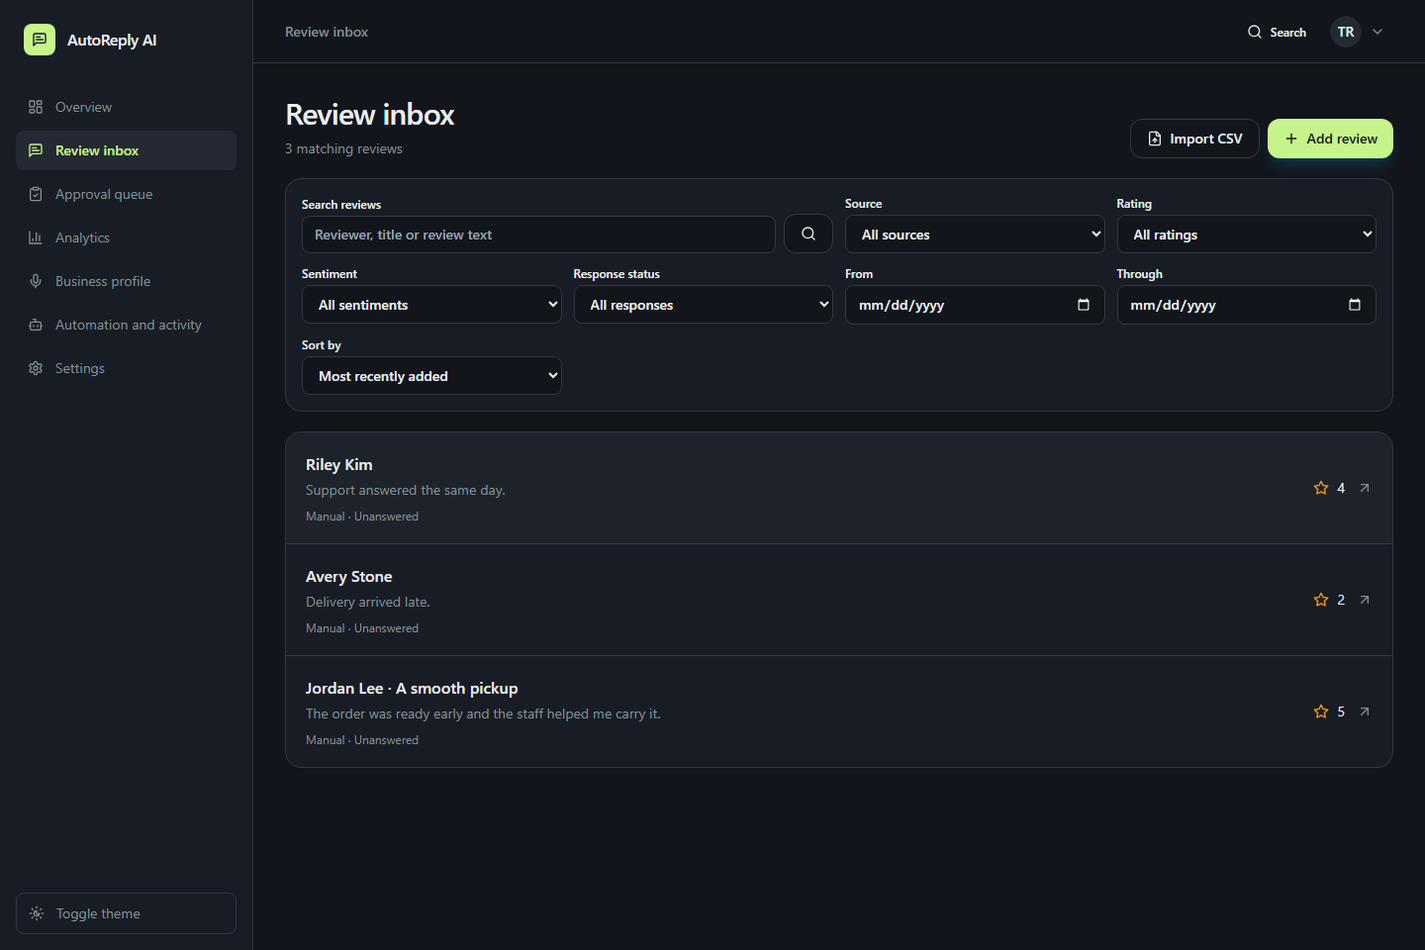
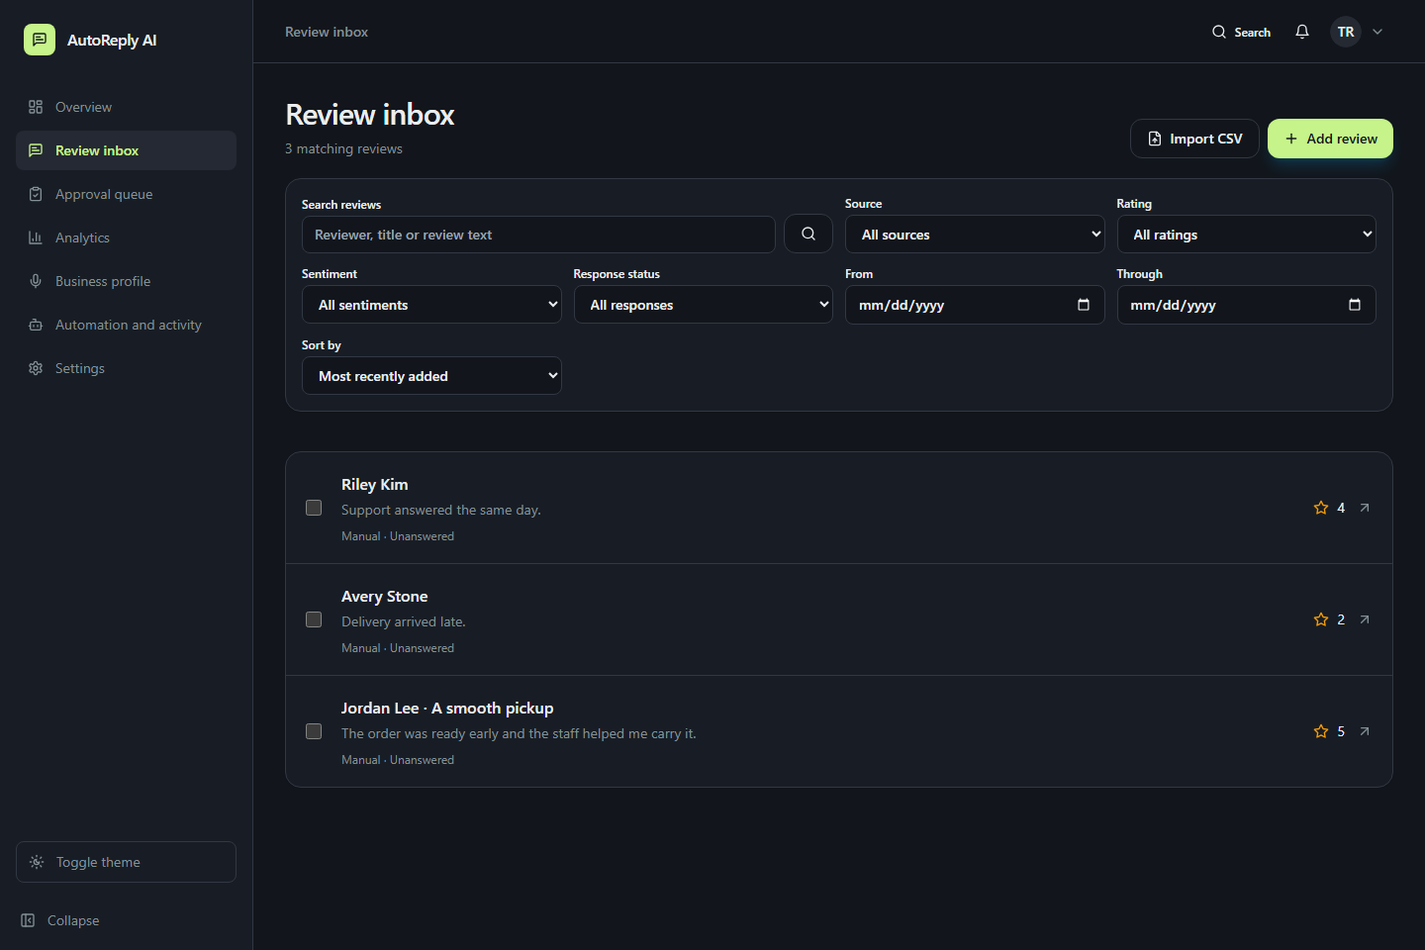
Complete workflow metrics, report downloads, and Vercel packaging

diff --git a/frontend/src/app/(dashboard)/reviews/page.tsx b/frontend/src/app/(dashboard)/reviews/page.tsx
@@ -9,6 +9,7 @@ import { Card } from '@/components/ui/card'
 import { Dialog, DialogContent, DialogDescription, DialogTitle } from '@/components/ui/dialog'
 import { PageTransition } from '@/components/layout/page-transition'
 import * as api from '@/lib/api'
+import { downloadCsv } from '@/lib/csv'
 
 const field = 'w-full rounded-lg border bg-background px-3 py-2 text-sm focus:outline-none focus:ring-2 focus:ring-ring'
 const initialFilters = { search: '', platform: '', rating: '', sentiment: '', response_status: '', date_from: '', date_to: '', sort: 'created_at:desc' }
@@ -23,6 +24,7 @@ export default function ReviewsPage() {
   const [file, setFile] = useState<File | null>(null)
   const [previewCsv, setPreviewCsv] = useState<string | null>(null)
   const [error, setError] = useState('')
+  const [selected, setSelected] = useState<string[]>([])
   const [sort_by, sort_order] = filters.sort.split(':')
   const query = useQuery({
     queryKey: ['reviews', page, filters],
@@ -34,15 +36,18 @@ export default function ReviewsPage() {
   })
 
   const changeFilter = (key: keyof typeof initialFilters, value: string) => {
+    setSelected([])
     setFilters((current) => ({ ...current, [key]: value }))
     setPage(1)
   }
   const refresh = () => {
+    setSelected([])
     setPage(1)
     for (const key of ['reviews', 'dashboard-stats', 'recent-reviews', 'monthly-activity', 'platform-performance', 'draft-jobs', 'workflow', 'sentiment-trends']) {
       void client.invalidateQueries({ queryKey: [key] })
     }
   }
+  const selectedReviews = query.data?.items.filter((review) => selected.includes(review.id)) ?? []
   const manual = useMutation({
     mutationFn: api.createReview,
     onSuccess: () => { refresh(); setDialog(null) },
@@ -116,23 +121,35 @@ export default function ReviewsPage() {
           <label className="min-w-0 text-xs font-medium">Through<input type="date" className={'mt-1 ' + field} min={filters.date_from} value={filters.date_to} onChange={(event) => changeFilter('date_to', event.target.value)} /></label>
           <label className="text-xs font-medium">Sort by<select className={'mt-1 ' + field} value={filters.sort} onChange={(event) => changeFilter('sort', event.target.value)}><option value="created_at:desc">Most recently added</option><option value="created_at:asc">Oldest added</option><option value="rating:asc">Lowest rating</option><option value="rating:desc">Highest rating</option></select></label>
         </Card>
-        {filters !== initialFilters && <Button variant="ghost" onClick={() => { setFilters(initialFilters); setSearchInput(''); setPage(1) }}>Clear filters</Button>}
+        <div className="flex flex-wrap gap-2">
+          {filters !== initialFilters && <Button variant="ghost" onClick={() => { setFilters(initialFilters); setSearchInput(''); setSelected([]); setPage(1) }}>Clear filters</Button>}
+          {selectedReviews.length > 0 && <Button variant="outline" onClick={() => downloadCsv('autoreply-selected-reviews.csv', [
+            ['rating', 'content', 'customer_name', 'title', 'platform', 'review_date'],
+            ...selectedReviews.map((review) => [review.rating, review.review_text, review.customer_name, review.title, review.platform, review.review_date]),
+          ])}>Export selected reviews ({selectedReviews.length})</Button>}
+        </div>
         <Card className="divide-y overflow-hidden">
           {query.isLoading && <p className="p-6 text-sm text-muted-foreground">Loading reviews…</p>}
           {query.isError && <p role="alert" className="p-6 text-sm text-destructive">{api.errorMessage(query.error, 'Could not load reviews.')} <button className="underline" onClick={() => query.refetch()}>Retry</button></p>}
           {query.data?.items.length === 0 && <p className="p-6 text-sm text-muted-foreground">No matching reviews. Add feedback or change your filters.</p>}
           {query.data?.items.map((review) => (
-            <Link key={review.id} href={'/reviews/detail?id=' + review.id} className="grid min-w-0 grid-cols-[1fr_auto] items-center gap-4 p-4 hover:bg-muted/50 sm:p-5">
+            <div key={review.id} className="grid grid-cols-[auto_minmax(0,1fr)] items-center pl-4 hover:bg-muted/50 sm:pl-5">
+              <input type="checkbox" aria-label={'Select ' + review.customer_name} checked={selected.includes(review.id)} onChange={(event) => {
+                const checked = event.target.checked
+                setSelected((ids) => checked ? [...ids, review.id] : ids.filter((id) => id !== review.id))
+              }} className="size-4 accent-primary" />
+              <Link href={'/reviews/detail?id=' + review.id} className="grid min-w-0 grid-cols-[1fr_auto] items-center gap-4 p-4 sm:p-5">
               <div className="min-w-0">
                 <p className="truncate font-medium">{review.customer_name}{review.title ? ' · ' + review.title : ''}</p>
                 <p className="mt-1 truncate text-sm text-muted-foreground">{review.review_text}</p>
                 <p className="mt-2 text-xs capitalize text-muted-foreground">{review.platform} · {review.reply?.status.replaceAll('_', ' ') ?? 'Unanswered'}</p>
               </div>
               <div className="flex items-center gap-2 text-sm"><Star className="size-4 text-amber-500" />{review.rating}<ArrowUpRight className="ml-1 size-4 text-muted-foreground" /></div>
-            </Link>
+              </Link>
+            </div>
           ))}
         </Card>
-        {query.data && query.data.total_pages > 1 && <nav className="flex items-center justify-between gap-3" aria-label="Review pages"><Button variant="outline" disabled={page <= 1} onClick={() => setPage(page - 1)}>Previous</Button><p className="text-sm">Page {page} of {query.data.total_pages}</p><Button variant="outline" disabled={page >= query.data.total_pages} onClick={() => setPage(page + 1)}>Next</Button></nav>}
+        {query.data && query.data.total_pages > 1 && <nav className="flex items-center justify-between gap-3" aria-label="Review pages"><Button variant="outline" disabled={page <= 1} onClick={() => { setSelected([]); setPage(page - 1) }}>Previous</Button><p className="text-sm">Page {page} of {query.data.total_pages}</p><Button variant="outline" disabled={page >= query.data.total_pages} onClick={() => { setSelected([]); setPage(page + 1) }}>Next</Button></nav>}
       </div>
       <Dialog open={dialog !== null} onOpenChange={(open) => { if (!open && !manual.isPending && !csv.isPending && !preview.isPending) openDialog(null) }}>
         <DialogContent className="max-h-[90dvh] overflow-y-auto">

diff --git a/frontend/src/app/(dashboard)/dashboard/page.tsx b/frontend/src/app/(dashboard)/dashboard/page.tsx
@@ -1,8 +1,9 @@
 'use client'
 
 import Link from 'next/link'
+import { useState } from 'react'
 import { useQuery } from '@tanstack/react-query'
-import { ArrowRight, CheckCircle2, Clock3, Inbox, Star } from 'lucide-react'
+import { ArrowRight, CheckCircle2, CircleAlert, Clock3, Inbox, Percent, Sparkles, Star } from 'lucide-react'
 import { ActivityChart } from '@/components/analytics/activity-chart'
 import { SentimentChart } from '@/components/analytics/sentiment-chart'
 import { PageTransition } from '@/components/layout/page-transition'
@@ -11,9 +12,11 @@ import * as api from '@/lib/api'
 import { formatRelativeTime } from '@/lib/utils'
 
 export default function DashboardPage() {
+  const [days, setDays] = useState(30)
   const stats = useQuery({ queryKey: ['dashboard-stats'], queryFn: api.getDashboardStats })
   const activity = useQuery({ queryKey: ['monthly-activity'], queryFn: () => api.getMonthlyActivity(6) })
-  const sentiment = useQuery({ queryKey: ['sentiment-trends'], queryFn: () => api.getSentimentTrends(30) })
+  const sentiment = useQuery({ queryKey: ['sentiment-trends', days], queryFn: () => api.getSentimentTrends(days) })
+  const workflow = useQuery({ queryKey: ['workflow'], queryFn: api.getWorkflowStatus })
   const recent = useQuery({ queryKey: ['recent-reviews'], queryFn: () => api.getReviews({ page: 1, page_size: 5 }) })
   const data = stats.data
   const tiles = [
@@ -21,6 +24,9 @@ export default function DashboardPage() {
     { name: 'Pending responses', value: data?.pending_replies, icon: Clock3 },
     { name: 'Approved drafts', value: data?.approved_replies, icon: CheckCircle2 },
     { name: 'Average rating', value: data?.total_reviews ? data.avg_rating.toFixed(2) : undefined, icon: Star },
+    { name: 'Generated drafts', value: workflow.data?.generated, icon: Sparkles },
+    { name: 'Failed attempts', value: workflow.data?.failed, icon: CircleAlert },
+    { name: 'Response completion', value: data ? data.completion_rate + '%' : undefined, icon: Percent },
   ]
 
   return (
@@ -31,6 +37,7 @@ export default function DashboardPage() {
           <Link href="/reviews" className="inline-flex items-center gap-2 rounded-lg bg-primary px-4 py-2.5 text-sm font-semibold text-primary-foreground">Open inbox <ArrowRight className="size-4" /></Link>
         </header>
         {stats.isError && <p role="alert" className="text-sm text-destructive">Dashboard totals are unavailable. <button className="underline" onClick={() => stats.refetch()}>Retry</button></p>}
+        {workflow.isError && <p role="alert" className="text-sm text-destructive">Draft activity is unavailable. <button className="underline" onClick={() => workflow.refetch()}>Retry</button></p>}
         <div className="grid grid-cols-2 gap-3 xl:grid-cols-4">
           {tiles.map(({ name, value, icon: Icon }) => (
             <Card key={name} className="min-w-0 p-4 sm:p-5">
@@ -39,6 +46,10 @@ export default function DashboardPage() {
               <p className="mt-1 text-sm text-muted-foreground">{name}</p>
             </Card>
           ))}
+        </div>
+        <div className="flex flex-wrap items-center justify-between gap-3 text-sm">
+          <dl className="flex flex-wrap gap-4">{['positive', 'neutral', 'negative'].map((label) => <div key={label} className="flex gap-2"><dt className="capitalize text-muted-foreground">{label}</dt><dd>{data ? (data.sentiments[label] ?? 0) + (label === 'negative' ? data.sentiments.very_negative ?? 0 : 0) : '—'}</dd></div>)}</dl>
+          <label className="flex items-center gap-2">Sentiment window<select value={days} onChange={(event) => setDays(Number(event.target.value))} className="rounded border bg-card px-2 py-1"><option value={7}>7 days</option><option value={30}>30 days</option><option value={90}>90 days</option></select></label>
         </div>
         <div className="grid min-w-0 gap-4 xl:grid-cols-2">
           {activity.isError ? <Card className="p-5">Review activity is unavailable.</Card> : <ActivityChart data={activity.data ?? []} loading={activity.isLoading} />}

diff --git a/frontend/e2e/workspace.spec.ts b/frontend/e2e/workspace.spec.ts
@@ -69,6 +69,9 @@ test('complete authenticated review workflow persists through reload', async ({ 
   const errors: string[] = []
   page.on('pageerror', (error) => errors.push(error.message))
   await login(page, email)
+  await page.getByRole('button', { name: 'Collapse sidebar' }).click()
+  await expect(page.getByRole('button', { name: 'Expand sidebar' })).toBeVisible()
+  await page.getByRole('button', { name: 'Expand sidebar' }).click()
   await page.getByRole('link', { name: 'Open inbox' }).click()
   await page.getByRole('button', { name: 'Add review' }).click()
   await page.getByLabel('Reviewer').fill('Jordan Lee')
@@ -76,6 +79,10 @@ test('complete authenticated review workflow persists through reload', async ({ 
   await page.getByLabel('Review text').fill('The order was ready early and the staff helped me carry it.')
   await page.getByRole('button', { name: 'Save review' }).click()
   await expect(page.getByRole('link', { name: /Jordan Lee/ })).toBeVisible()
+  await page.getByRole('checkbox', { name: 'Select Jordan Lee' }).check()
+  const selectedCsv = page.waitForEvent('download')
+  await page.getByRole('button', { name: 'Export selected reviews (1)' }).click()
+  expect((await selectedCsv).suggestedFilename()).toBe('autoreply-selected-reviews.csv')
   await page.getByRole('button', { name: 'Import CSV' }).click()
   await page.getByLabel('CSV file').setInputFiles({ name: 'synthetic.csv', mimeType: 'text/csv', buffer: Buffer.from('rating,content,customer_name\n2,Delivery arrived late.,Avery Stone\n4,Support answered the same day.,Riley Kim\n7,Invalid rating,Invalid Example') })
   await page.getByRole('button', { name: 'Preview import' }).click()
@@ -98,6 +105,7 @@ test('complete authenticated review workflow persists through reload', async ({ 
   await page.getByRole('textbox', { name: 'Response', exact: true }).fill('Thank you, Jordan. We’re glad your pickup was ready early and that our team could help.')
   await page.getByRole('button', { name: 'Save draft' }).click()
   await expect(page.getByText('Draft saved.', { exact: true })).toBeVisible()
+  await expect(page.getByRole('link', { name: '1 drafts awaiting approval' })).toBeVisible()
   await page.getByRole('button', { name: 'Search workspace' }).click()
   await page.getByLabel('Search term').fill('ready early')
   const search = page.getByRole('dialog', { name: 'Search workspace' })
@@ -120,6 +128,9 @@ test('complete authenticated review workflow persists through reload', async ({ 
   await expect(page.getByRole('heading', { name: 'Feedback analytics' })).toBeVisible()
   await expect(page.getByText('33.3%', { exact: true })).toBeVisible()
   await page.getByLabel('Sentiment window').selectOption('7')
+  const reportReady = page.waitForEvent('download')
+  await page.getByRole('button', { name: 'Download sentiment CSV' }).click()
+  expect((await reportReady).suggestedFilename()).toBe('autoreply-sentiment-7-days.csv')
   await fit(page)
   await page.screenshot({ path: path.join(evidence, 'analytics.png'), fullPage: true })
   await page.getByRole('navigation', { name: 'Workspace' }).getByRole('link', { name: 'Business profile' }).click()

diff --git a/frontend/src/components/layout/navbar.tsx b/frontend/src/components/layout/navbar.tsx
@@ -1,13 +1,15 @@
 'use client'
 
 import { usePathname, useRouter } from 'next/navigation'
-import { useQueryClient } from '@tanstack/react-query'
-import { ChevronDown, LogOut, Menu, Settings } from 'lucide-react'
+import Link from 'next/link'
+import { useQuery, useQueryClient } from '@tanstack/react-query'
+import { Bell, ChevronDown, LogOut, Menu, Settings } from 'lucide-react'
 import { Avatar, AvatarFallback } from '@/components/ui/avatar'
 import { DropdownMenu, DropdownMenuContent, DropdownMenuItem, DropdownMenuLabel, DropdownMenuSeparator, DropdownMenuTrigger } from '@/components/ui/dropdown-menu'
 import { getInitials } from '@/lib/utils'
 import { WorkspaceSearch } from '@/components/layout/workspace-search'
 import { useAuthStore } from '@/stores/auth-store'
+import { getWorkflowStatus } from '@/lib/api'
 
 const labels: Record<string, string> = { dashboard: 'Overview', reviews: 'Review inbox', brand: 'Business profile', agent: 'Automation and activity', approvals: 'Approval queue', analytics: 'Analytics', admin: 'Administration', settings: 'Settings' }
 
@@ -16,11 +18,14 @@ export function Navbar({ onMenuClick }: { onMenuClick: () => void }) {
   const router = useRouter()
   const client = useQueryClient()
   const { user, logout } = useAuthStore()
+  const workflow = useQuery({ queryKey: ['workflow'], queryFn: getWorkflowStatus })
+  const pending = workflow.data?.awaiting_approval
 
   return <header className="sticky top-0 z-20 flex h-16 items-center gap-3 border-b bg-background px-4 sm:px-6 xl:px-8">
     <button aria-label="Open navigation" className="rounded-lg p-2 hover:bg-accent lg:hidden" onClick={onMenuClick}><Menu className="size-5" /></button>
     <span className="text-sm font-medium text-muted-foreground">{labels[pathname.split('/')[1]] ?? 'Workspace'}</span>
     <div className="ml-auto flex items-center gap-1"><WorkspaceSearch />
+      <Link href="/approvals" aria-label={pending ? `${pending} drafts awaiting approval` : 'Open approval queue'} className="relative rounded-lg p-2 hover:bg-accent"><Bell className="size-4" />{Boolean(pending) && <span className="absolute right-1 top-1 size-2 rounded-full bg-primary" />}</Link>
       <DropdownMenu>
         <DropdownMenuTrigger asChild><button aria-label="Account menu" className="flex items-center gap-2 rounded-lg px-2 py-1 hover:bg-accent"><Avatar size="sm"><AvatarFallback>{user ? getInitials(user.full_name) : 'U'}</AvatarFallback></Avatar><ChevronDown className="size-4 text-muted-foreground" /></button></DropdownMenuTrigger>
         <DropdownMenuContent align="end" className="min-w-52">

diff --git a/frontend/src/app/(dashboard)/analytics/page.tsx b/frontend/src/app/(dashboard)/analytics/page.tsx
@@ -6,7 +6,9 @@ import { ActivityChart } from '@/components/analytics/activity-chart'
 import { SentimentChart } from '@/components/analytics/sentiment-chart'
 import { PageTransition } from '@/components/layout/page-transition'
 import { Card } from '@/components/ui/card'
+import { Button } from '@/components/ui/button'
 import * as api from '@/lib/api'
+import { downloadCsv } from '@/lib/csv'
 
 export default function AnalyticsPage() {
   const [days, setDays] = useState(30)
@@ -16,10 +18,18 @@ export default function AnalyticsPage() {
   const platforms = useQuery({ queryKey: ['platform-performance'], queryFn: api.getPlatformPerformance })
   const data = stats.data
 
+  function downloadReport() {
+    if (!trends.data?.length) return
+    const rows = trends.data.map(({ date, positive, neutral, negative, very_negative }) =>
+      [date, positive, neutral, negative, very_negative],
+    )
+    downloadCsv(`autoreply-sentiment-${days}-days.csv`, [['date', 'positive', 'neutral', 'negative', 'very_negative'], ...rows])
+  }
+
   return (
     <PageTransition>
       <div className="space-y-5">
-        <header><h1 className="text-3xl font-semibold tracking-tight">Feedback analytics</h1><p className="mt-2 text-sm text-muted-foreground">See how customer ratings and response activity change over time.</p></header>
+        <header className="flex flex-wrap items-start justify-between gap-3"><div><h1 className="text-3xl font-semibold tracking-tight">Feedback analytics</h1><p className="mt-2 text-sm text-muted-foreground">See how customer ratings and response activity change over time.</p></div><Button variant="outline" disabled={!trends.data?.length} onClick={downloadReport}>Download sentiment CSV</Button></header>
         {stats.isError && <p role="alert" className="text-sm text-destructive">Workspace totals are unavailable.</p>}
         <div className="grid gap-4 lg:grid-cols-3">
           <Card className="p-5"><h2 className="font-semibold">Response completion</h2><p className="mt-4 text-3xl font-semibold">{data ? data.completion_rate + '%' : '—'}</p><p className="mt-2 text-sm text-muted-foreground">Reviews with an approved or published response.</p></Card>

diff --git a/frontend/src/lib/csv.ts b/frontend/src/lib/csv.ts
@@ -1,0 +1,16 @@
+function quoteCsvCell(value: string | number | null | undefined) {
+  if (typeof value === 'number') return String(value)
+  const text = value ?? ''
+  const safe = /^[\t\r\n]|^\s*[=+@-]/.test(text) ? "'" + text : text
+  return '"' + safe.replaceAll('"', '""') + '"'
+}
+
+export function downloadCsv(filename: string, rows: (string | number | null | undefined)[][]) {
+  const csv = rows.map((row) => row.map(quoteCsvCell).join(',')).join('\r\n')
+  const url = URL.createObjectURL(new Blob([csv], { type: 'text/csv;charset=utf-8' }))
+  const link = document.createElement('a')
+  link.href = url
+  link.download = filename
+  link.click()
+  setTimeout(() => URL.revokeObjectURL(url), 1000)
+}

diff --git a/frontend/src/lib/api.ts b/frontend/src/lib/api.ts
@@ -171,7 +171,7 @@ export async function getReviewHistory(reviewId: string): Promise<{ id: string; 
   return data
 }
 
-export async function getWorkflowStatus(): Promise<{ ai_enabled: boolean; provider: string; model: string; awaiting_approval: number; generated: number; remaining_today: number; daily_limit: number }> {
+export async function getWorkflowStatus(): Promise<{ ai_enabled: boolean; provider: string; model: string; awaiting_approval: number; generated: number; failed: number; remaining_today: number; daily_limit: number }> {
   const { data } = await api.get('/reviews/workflow')
   return data
 }

diff --git a/backend/app/api/v1/reviews.py b/backend/app/api/v1/reviews.py
@@ -12,6 +12,7 @@ from app.core.config import settings
 from app.core.dependencies import get_current_business, get_current_user, get_db, limiter
 from app.models.audit_log import AuditLog
 from app.models.business import Business
+from app.models.drafting import DraftJob
 from app.models.reply import Reply
 from app.models.usage import UsageMetric
 from app.models.user import User
@@ -150,8 +151,11 @@ async def workflow_status(
     generated = await db.scalar(select(func.count()).where(
         UsageMetric.business_id == business.id, UsageMetric.metric_type == "ai_generation",
     ))
+    failed = await db.scalar(select(func.count()).where(
+        DraftJob.business_id == business.id, DraftJob.state == "failed",
+    ))
     return {"ai_enabled": settings.ai_ready, "provider": settings.AI_PROVIDER, "model": settings.ai_model,
-            "awaiting_approval": awaiting, "generated": generated,
+            "awaiting_approval": awaiting, "generated": generated, "failed": failed,
             "remaining_today": await DraftingService(db).remaining(user.id), "daily_limit": settings.AI_USER_DAILY_LIMIT}
 
 

diff --git a/docs/DEPLOYMENT.md b/docs/DEPLOYMENT.md
@@ -10,6 +10,7 @@ See the root README for environment setup. Compose serves the Next.js static bui
 - Store `SECRET_KEY`, `REGISTRATION_INVITE`, `DATABASE_URL` and `GEMINI_API_KEY` on the backend. Configure credentials as Sensitive in Production where Vercel allows it. Set the exact frontend origin in `CORS_ORIGINS` and `APP_URL`.
 - Set `AI_GENERATION_ENABLED=true`, `AI_PROVIDER=gemini` and `ALLOW_SIGNUPS=false`. The model defaults to `gemini-3.5-flash-lite`. Defaults allow five attempts per user and 30 across the service per UTC day, with two active jobs. Check the provider’s quota before changing these controls.
 - Build the workspace with the deployed API URL including `/api/v1`, `NEXT_PUBLIC_INVITE_SIGNUPS=true` and `NEXT_PUBLIC_ALLOW_SIGNUPS=false`. These public flags are applied at build time.
+- From `frontend/`, run `node scripts/package-vercel.mjs out <linked-staging-directory>` to prepare the static output. Deploy the linked frontend staging directory with `vercel deploy --prebuilt --prod`.
 - The hosted drafting path processes requests with a database-backed job ledger. The legacy Celery/Redis workers require a separate runtime and credentials.
 
 Use a fictional review to verify intake, model inference, approval, and persistence after reload. Confirm unauthorized requests are rejected and the workspace origin can reach the API.

diff --git a/docs/TEST_RESULTS.md b/docs/TEST_RESULTS.md
@@ -2,9 +2,10 @@
 
 | Check | Result |
 | --- | --- |
-| Live Gemini sentiment and multilingual output | PASS. Real Gemini 3.5 Flash-Lite inference classified a fictional German complaint and drafted a German response. |
+| Live Gemini sentiment and multilingual output | PASS. Real Gemini 3.5 Flash-Lite inference classified positive, neutral, and negative feedback and drafted replies in English, Urdu, and German. |
 | Live local workflow persistence | PASS. The classified review, draft, completed job, and approval were persisted. |
-| Public frontend and private workspace | Chromium covered responsive landing, the workflow illustration, access gating, CSV preview and import, global search, persisted replies, analytics, and business settings. |
+| Automated backend checks | 148 passed, 49% line coverage across the backend. |
+| Public frontend and private workspace | 10 Chromium scenarios cover a six-size responsive landing check, workflow illustration, access gating, CSV preview and import, global search, persisted replies, analytics, and business settings. |
 | Database migrations | PASS. SQLite and hosted Neon PostgreSQL applied the draft job and quota migration. |
 | Hosted application and AI | BLOCKED. The Production Gemini credential is pending. |
 | Redis worker and external platform connectors | NOT TESTED in the hosted environment. |

diff --git a/docs/HOSTED_RELEASE.md b/docs/HOSTED_RELEASE.md
@@ -4,9 +4,11 @@ The dedicated Vercel API project is linked to a Neon Free PostgreSQL database. T
 
 | Gate | Status |
 | --- | --- |
-| Local Gemini API inference | PASS. Gemini 3.5 Flash-Lite classified fictional feedback and returned a German reply. |
+| Local Gemini API inference | PASS. Gemini 3.5 Flash-Lite classified positive, neutral, and negative fictional feedback and returned English, Urdu, and German replies. |
 | Local draft persistence and human approval | PASS. The reply, classified sentiment, job, and approval persisted. |
 | Hosted Gemini credential | BLOCKED. The operator needs to add `GEMINI_API_KEY` as Sensitive for Production. |
 | Final workspace deployment and hosted AI verification | Pending hosted credential configuration. |
+
+Once the operator confirms the credential, deploy the backend and linked prebuilt frontend to Production, verify the API's database readiness and frontend CORS, and exercise invite registration with a fictional review. Verify live generation, approval, persistence after reload and workspace isolation against the deployed app.
 
 [Backend project environment settings](https://vercel.com/abdul-moiz-ali-s-projects/autoreply-ai-api/settings/environment-variables)
